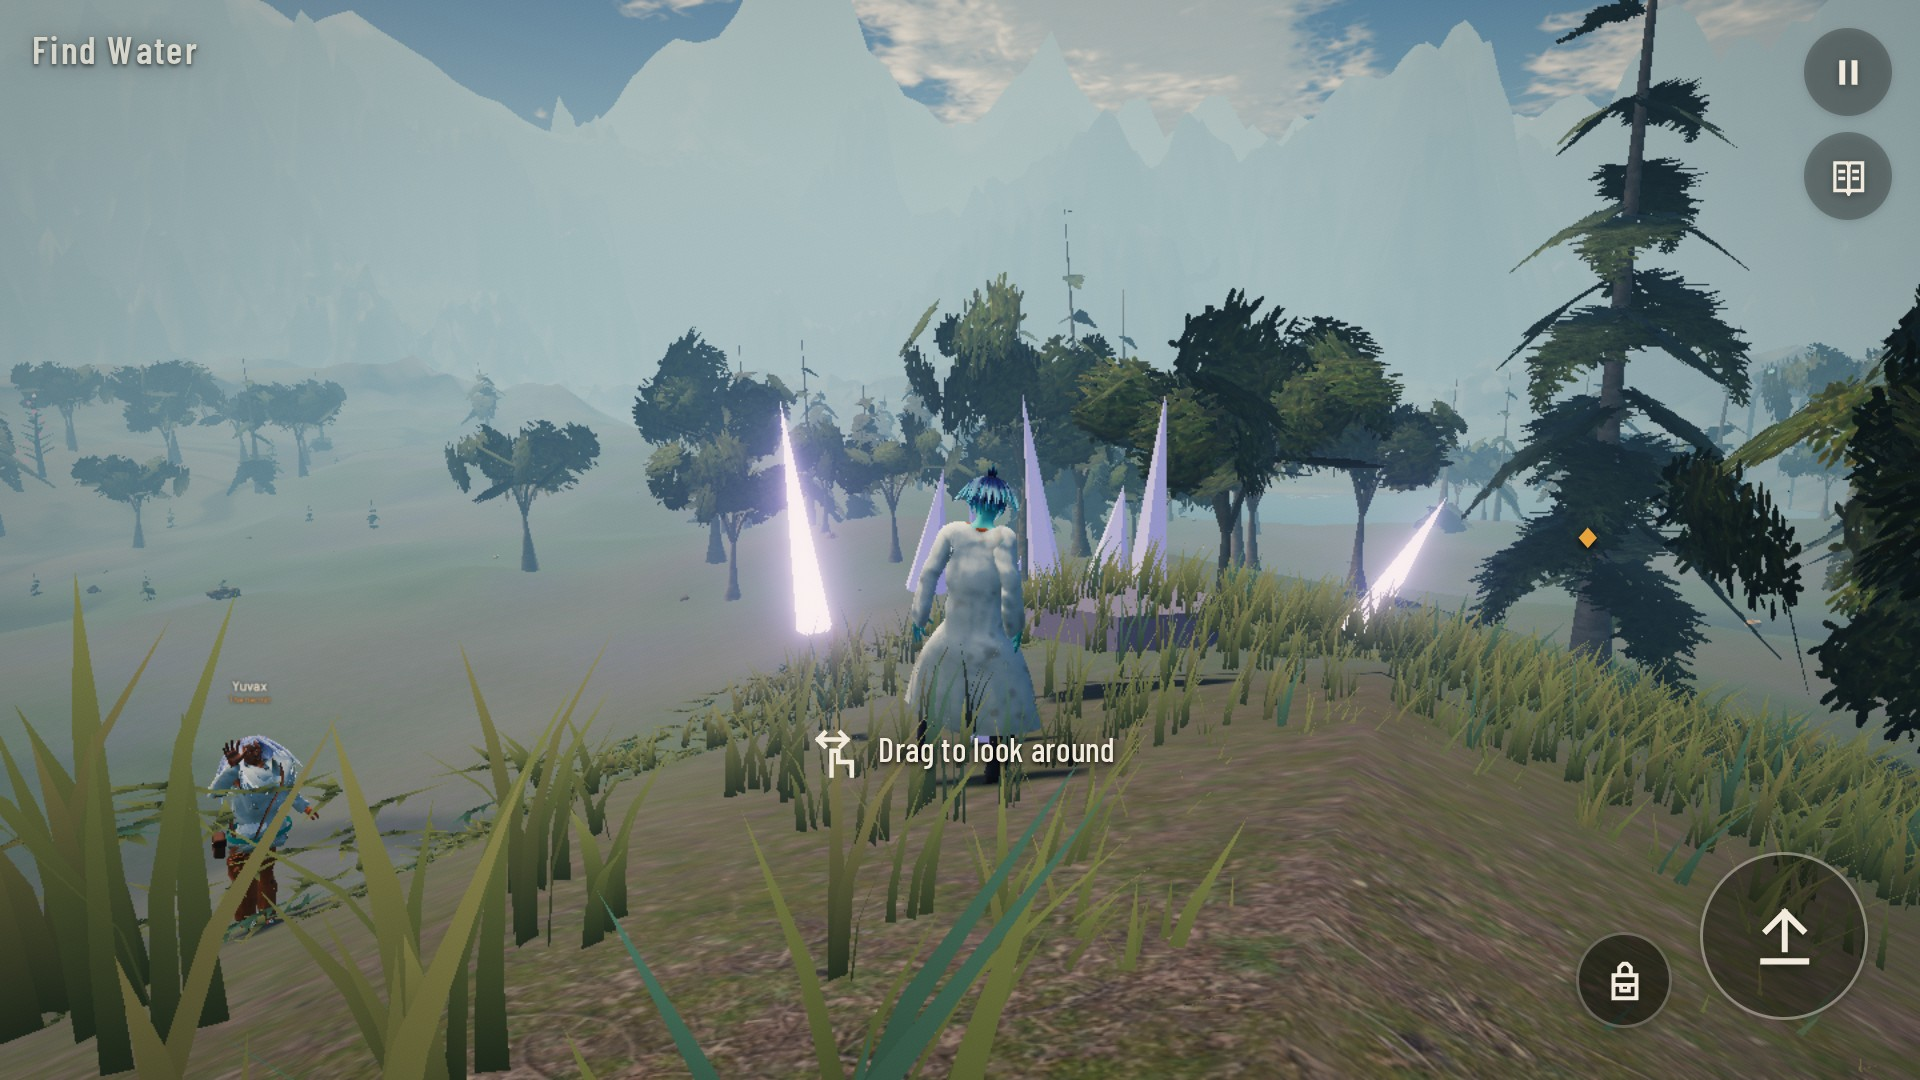
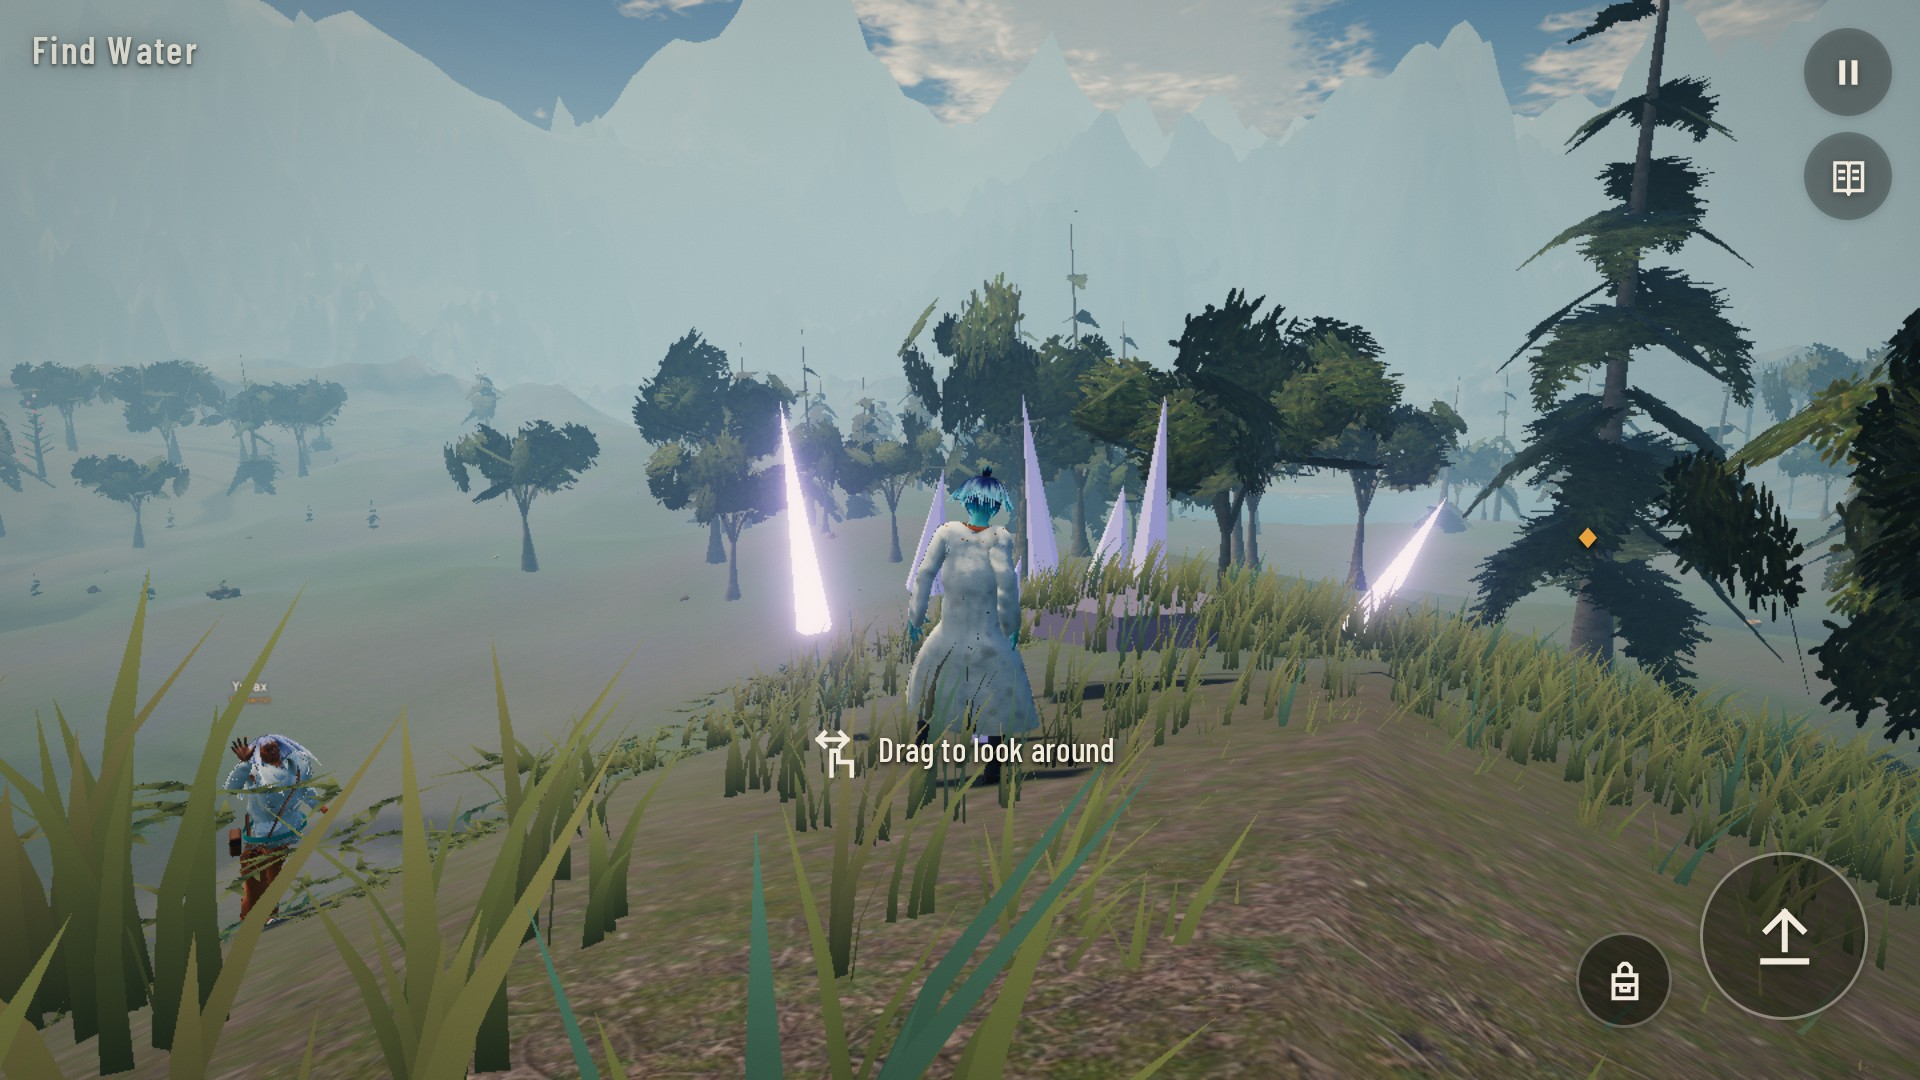
Release QA written up, store screenshots from the release build, and the Play Store bundle rebuilt
- docs/QA_RELEASE.md: what I played, every finding with its severity and status (fixed, improved or left, and why),
  the gates the release build passed, and what is left for later.
- The Play Store bundle is rebuilt with `store/release.sh --same` (versionCode 1 was never uploaded): 1.0.0 (1),
  129.8 MB, signed, target SDK 36, no permissions, 16 KB aligned, about 128.6 MB to download. It is in
  ~/beyond-sagittarius-release/ and in Downloads\BeyondSagittarius_PlayStore\ on Windows.
- store/screenshots: taken again by app_smoke from the files inside the app, because the title now shows v1.0.0. The
  same files are in Downloads\BeyondSagittarius_PlayStore\screenshots-1.0.0\.
- PLAYSTORE_GUIDE.md says where the bundle and the new screenshots are, and what was tested on this build.

Gates on this tree: build and typecheck, smoke, levels_smoke (levels 1 to 22), prologue_smoke, mobile_smoke,
cutscene_qa (578 frames, 0 errors), app_smoke, the Electron smoke and check_aab.

diff --git a/docs/QA_RELEASE.md b/docs/QA_RELEASE.md
@@ -1,0 +1,51 @@
+# Release QA, 2026-11-19
+
+I played the release build start to finish as a player before the first Play Store upload: on desktop (1280 x 720,
+mouse and keyboard) and phone-sized touch (844 x 390 landscape, the Mobile preset), plus the Android app's own files
+with a fake Capacitor bridge (`tools/android/app_smoke.py`) and the Electron app (`npm run smoke:desktop`).
+
+Covered: a new game (MegaZroN in the Vault, the title card, Zenvora with every task, the take-off, the orbit card, the
+deck, the title sequence, the wake-up) with Skip at every stage; all ten levels of Chapter One and the levels after it
+to the end of Chapter Two's playable part (`levels_smoke.py`); every cutscene frame by frame (`cutscene_qa.py`);
+Continue, save and load; Settings in all four tabs in English, Hindi and Urdu, the three quality presets, the audio
+sliders and the language switch from inside Settings; Chapters with "The opening" (it ends on the title and leaves the
+main save as it was, Continue picks the story up at the same level); pause, back and quit to title; death and Wake up
+again; Legal; and on Android back, background, resume and the exit question.
+
+Severity: **blocker** (cannot go on or crashes), **major** (wrong or broken for every player who gets there),
+**minor** (visible but the game goes on), **cosmetic**.
+
+| # | Where | What I found | Severity | Status |
+| --- | --- | --- | --- | --- |
+| 1 | Level 5 (shelter) | Oom-Sa, the roaming local, stopped beside a giant frond, and every Use press talked to her instead of picking the frond up. A player who did not step around her was stuck; the level run stuck here for 160 tries. An item within a step of you now wins over a person standing closer (`findInteraction`). | major | fixed |
+| 2 | Zenvora, every preset | While you were in the city, the planet's lake kept rendering the whole planet into its mirror for the city camera, and the grass and forest kept rebuilding around it: 5.7 M triangles a frame on Ultra (the 480 x 270 pass), 1.6 M every third frame on Web. Nothing of it was on screen. `World.update` now skips them while another stage is drawn. | major (performance) | fixed |
+| 3 | Legal, all languages | "Licences and credits" said every model was CC0 from Poly Haven. The clothes include CC BY garments (Elvaerwyn, Mindfront, punkduck), and the bodies, animation, mocap, fonts and Capacitor were not named. The paragraph now credits them in English, Hindi and Urdu; Capacitor is in CREDITS.md. | major (licences) | fixed |
+| 4 | Title screen | The version badge said v0.1 on a 1.0.0 release. It now shows the version from `android/app/version.properties` (the desktop app still shows its own). | minor | fixed |
+| 5 | Phones, Zenvora | 1,250 to 2,550 draw calls a frame; at 4x CPU slowdown (Chrome's mid-range phone model) the street took 183 ms and the view out of the flat 320 ms of main-thread time a frame. On phones the townsfolk further than 26 m from the camera are not drawn (the painted crowd in the haze stands in for them): 105 ms and 155 ms. | major (performance) | improved |
+| 6 | Phones, the planet | Free play: 624 draw calls, 58 ms a frame at 4x CPU slowdown. The fruit bushes were twelve meshes each and every red fruit eleven (ten thorns), and item rings further than 9 m were drawn at zero opacity. Bushes and thorns are merged, far rings are skipped, and the phone shadow covers 45 m instead of 70 (sharper too): 436 draw calls, 44 ms. | major (performance) | improved |
+| 7 | Deck, title sequence | Nuvexa's chest showed through her sweater in the selfie close-up, the first close-up of a new game (skin coming through the cloth when a raised arm stretches it). Every garment is now drawn 6 mm nearer the camera than the skin (`CLOTH_LIFT`), on top of the per-layer 3 mm. | minor (visual) | improved |
+| 8 | Deck | A small hole in Nuvexa's sweater at the collarbone shows the skin under it. It is in the garment's own mesh; fixing it needs a character rebuild. | cosmetic | left |
+| 9 | Phones, play | Your own lab coat showed dark specks from the follow camera: phones drew every body with the light build (`.lod1`). The body you play is now drawn with the full build on phones too (`PLAYER_DETAIL`); the others keep the light one. A few specks remain at the hip. | minor (visual) | improved |
+| 10 | LEVELS.md | Said the Zenvora prologue was not in the shipped flow. It is. | cosmetic (docs) | fixed |
+| 11 | Tests | Playwright 1.64's Chromium hangs on the tutorial's mouse-look drag and grows past 10 GB. The browser tests now pin Playwright 1.63 (`tools/pw_pin.py` re-runs any test under `~/.venvs/bs-test`, made by `tools/test_env.sh`). | test | fixed |
+| 12 | Tests | mobile_smoke tapped Use at the trader and gave the dialogue a fixed 10 s; on a slow frame it failed, and stepping the game while waiting let the trader walk away. It now stands next to him, waits for Use, taps, and waits for the dialogue state with real frames, tapping again only when the game shows the tap was not taken. | test | fixed |
+| 13 | Tests | app_smoke expected Back in the Vault to change the state at once. Since the cold open the Vault hands over to the title card (state still `narrator`), so the test now checks that the Vault stopped. Back itself worked. | test | fixed |
+| 14 | Tests | Worktrees could not build the Android app: the shared `node_modules` in the main checkout had no Capacitor. Reinstalled from the current lockfile. | test | fixed |
+
+## Gates on the release build
+
+All on the final tree (Playwright 1.63, SwiftShader): build and typecheck; `smoke.py`; `levels_smoke.py` (levels 1 to
+22, death and retry, Continue after a reload, Hindi and Urdu HUD); `prologue_smoke.py`; `mobile_smoke.py` (iPhone 13
+portrait, Pixel 7 landscape); `cutscene_qa.py` (every scene, 0 errors); `tools/android/app_smoke.py` (the bundled
+files with Capacitor's bridge: back, background, resume, Continue, the exit question, offline); the Electron smoke;
+and `tools/android/check_aab.py` on the signed bundle.
+
+## Left for later
+
+- Phones in Zenvora are still bound by draw calls: at 4x CPU slowdown the street costs about 105 ms of main thread a
+  frame and the view out of the flat about 155 ms (free play about 50 ms). The rest is three.js's cost per draw call
+  for the townsfolk (a dozen draws each) and the street's props; the next step is fewer, merged meshes per body.
+- The sweater hole of item 8, and the inner-garment-at-the-coat-opening cases the skin work measured, need a
+  character rebuild.
+- No real Android device or emulator has run the app yet (internal testing on a phone is step 4 of
+  `store/PLAYSTORE_GUIDE.md`).

diff --git a/store/PLAYSTORE_GUIDE.md b/store/PLAYSTORE_GUIDE.md
@@ -115,11 +115,16 @@ roll out (you can start with a staged rollout, for example 20%). Review of the f
 
 ## 7. Copy the files to Windows for uploading
 
-The bundle is about 127 MB, so it is not copied to Downloads automatically. In WSL:
+The release bundle of 2026-11-19 (1.0.0, versionCode 1, after the release QA) is already in
+`Downloads\BeyondSagittarius_PlayStore\beyond-sagittarius-1.0.0-1.aab`, next to this guide. Upload that one.
+`store/release.sh` does not copy to Windows by itself (the bundle is about 130 MB); after a later release, in WSL:
 
-    cp ~/beyond-sagittarius-release/*.aab /mnt/c/Users/<you>/Downloads/
+    cp ~/beyond-sagittarius-release/*.aab /mnt/c/Users/<you>/Downloads/BeyondSagittarius_PlayStore/
 
 Or in Windows Explorer open `\\wsl$\Ubuntu\home\<you>\beyond-sagittarius-release\`.
+The screenshots were taken again from this build (the title now shows v1.0.0): upload the ones in
+`Downloads\BeyondSagittarius_PlayStore\screenshots-1.0.0\` (the same files as `store/screenshots/`), not the older
+`screenshots\` folder there.
 
 ## 8. Updates (one command)
 
@@ -153,6 +158,12 @@ Version scheme: `versionName` is what players see (1.0.0, 1.1.0 for new levels, 
   Play identity verification already counts; nothing extra to do.
 
 ## 10. What was tested before the first upload (2026-11-19)
+
+Release QA, the same day: I played the build through as a player on desktop and phone-sized touch, the Android app's
+own files and the Electron app. Everything found, fixed or left, is in `docs/QA_RELEASE.md` in the repo. The bundle
+was rebuilt after it (`store/release.sh --same`: versionCode 1 had not been uploaded yet). All of these passed on it:
+build and typecheck, smoke, levels_smoke (levels 1 to 22), prologue_smoke, mobile_smoke, cutscene_qa, app_smoke and
+the Electron smoke.
 
 - `tools/android/check_aab.py`: package id, version 1.0.0 (1), minSdk 29, targetSdk 36, no user permissions,
   no native code (16 KB rule met), bundle marked PAGE_ALIGNMENT_16K, download size about 126 MB, signed with the upload key.
